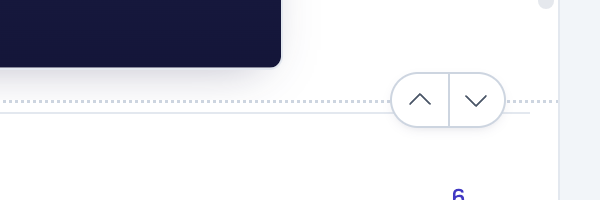
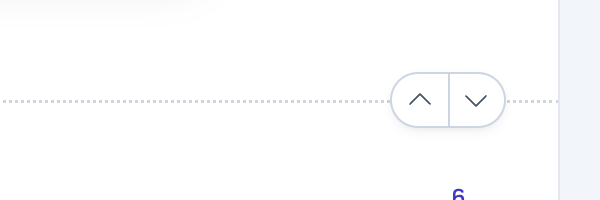
Decks: long-side proof, third run (the slide around the notes row, one line, ˅ at the right)

diff --git a/docs/development/releases/v2.3.0/sprint-159-decks-training/research/proof/layout-long-side/README.md b/docs/development/releases/v2.3.0/sprint-159-decks-training/research/proof/layout-long-side/README.md
@@ -18,6 +18,23 @@ Retaken on 16 November at 22:05 after merging #759 (Slide settings in the deck's
 
 **The slide above is the pane's height less 32, at 16:9:** a pane of 390 gives a slide 636 × 358, with 16 above it. **One row is still under it: "Speaker notes".** It isn't part of #759 (the experience's "Notes are comments" removes it later), so the stage above is 48 px taller than its pane, the notes row sits under the level line and the slide's pane shows a scrollbar at its right. The slide itself is whole.
 
+## Third run: the slide fits around the notes row, one line, ˅ at the right (16 November, 22:21)
+
+After merging #760 (Sprint 161 PR 1) and the fixes on top: one more isolated dev window (fresh profile, `RITEMARK_CONTROL_CATALOGUE=1`, stopped with `LEFT=0`). These replace the earlier files of the same names:
+
+| What | File |
+|---|---|
+| 1440 × 900, the AI column open: above, the slide 551 × 310 over the "Speaker notes" row, no scrollbar | `above-ai-open-1440.png` |
+| 1440 × 900, the left column open: above, the slide 551 × 310, no scrollbar | `above-left-open-1440.png` |
+| The level line with the flat pill, close up: one dotted line, no hairline under it | `flat-pill-closeup.png` |
+| Above, the slide hidden: ˅ "Show the slide" at the handout's top right, where the pill was | `above-slide-hidden-1440.png` |
+
+- **The slide above fits around what's still on the stage:** its pane's height less 32 and less the measured row under it (the speaker notes', 48 px): (390 − 32 − 48) × 16/9 = 551 × 310. The stage group is exactly the pane's 390, so the stage doesn't scroll (`scrollHeight` = `clientHeight` = 390), with the AI column open and with the left column open.
+- **The handout hidden, above:** the slide is 900 × 506 in a 780 pane, the stage group 586; no overflow.
+- **One line:** the hairline under the level line was the current part's head border, 6 px under the handout's top by the scroll rule. Above, the handout's top 8 px are now the desk's colour; the close-up shows the dotted line alone.
+- **The Popover catalogue row:** `control-states.mjs --only popover` captured 6 states, 0 not, in `control-popover/` (unapproved), with `sheet.html`.
+- Every deck file's SHA-256 was unchanged.
+
 ## What the window showed
 
 - **Measured sizes** (CSS px, second run): AI and left column folded: room 1,292, beside, slide 469 wide, centred in its pane's height. AI open: room 900, above, the line at 390 of 780, slide 636 × 358 at 16 from the top. Left column open: room 1,044, above, slide 636. 1920 × 1080, AI open: room 1,380, beside, slide 504.
